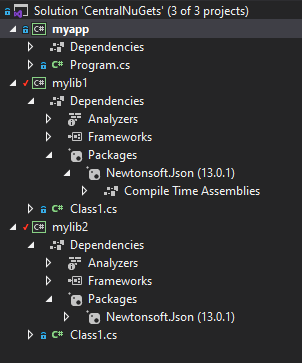
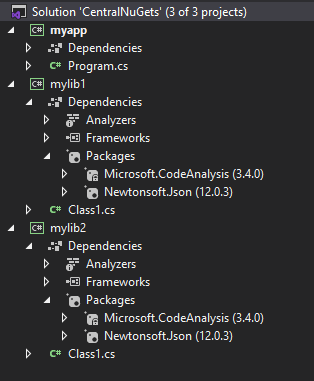
Managing Package Versions Centrally

Changed region(s): [[0.0, 0.0, 1.0, 0.9394]]

diff --git a/NuGets/ManagingPackageVersionsCentrally/Use-Directory.Packages.props/myapp/Program.cs b/NuGets/ManagingPackageVersionsCentrally/Use-Directory.Packages.props/myapp/Program.cs
@@ -1,0 +1,12 @@
+using System;
+
+namespace myapp
+{
+    class Program
+    {
+        static void Main(string[] args)
+        {
+            Console.WriteLine("Hello World!");
+        }
+    }
+}

diff --git a/NuGets/ManagingPackageVersionsCentrally/Use-Directory.Packages.props/mylib1/Class1.cs b/NuGets/ManagingPackageVersionsCentrally/Use-Directory.Packages.props/mylib1/Class1.cs
@@ -1,0 +1,8 @@
+using System;
+
+namespace mylib1
+{
+    public class Class1
+    {
+    }
+}

diff --git a/NuGets/ManagingPackageVersionsCentrally/Use-Directory.Packages.props/mylib2/Class1.cs b/NuGets/ManagingPackageVersionsCentrally/Use-Directory.Packages.props/mylib2/Class1.cs
@@ -1,0 +1,8 @@
+using System;
+
+namespace mylib2
+{
+    public class Class1
+    {
+    }
+}

diff --git a/README.md b/README.md
@@ -283,10 +283,33 @@ We can see that there is conflict between version 13.0.1 and 13.0.0.
 
 * It is better to define version of packages centrally to do not have such issues:
 
-Create a new file called ```Directory.Build.targets``` and define there references to nuget packages and its version. From ```csproj``` files remove version, only nuget name should be there.
+  There are 2 types of files used by MSbuild:
 
-After this change we can see that in both projects (libs) the same version of nuget is used:   
-![central-nugets.png](./images/central-nugets.png)
+  * Directory.Build.props   
+  
+    "Properties that are set in Directory.Build.props **can be overridden** elsewhere in the project file or in imported files, so you should think of the settings in Directory.Build.props as **specifying the defaults** for your projects."   
+
+    .props files are imported early in the import order.
+
+    IT LOOKS THAT IN THIS FILE WE CANNOT PLAY WITH NUGET PACKAGES!
+
+  * Directory.Build.targets
+  
+    "Directory.Build.targets is imported from Microsoft.Common.targets after importing .targets files from NuGet packages. So, **it can override** properties and targets defined in most of the build logic, or set properties for all your projects regardless of what the individual projects set."   
+
+    .targets files are imported late in the build order.
+
+    Create a new file called ```Directory.Build.targets``` and define there references to nuget packages and its version. From ```csproj``` files remove version, only nuget name should be there.
+
+    NOTE: if we want have a nuget package in all projects from solution then use **Include** attribute - then there is no need to specify this package at all in csproj files!
+
+    After this change we can see that in both projects (libs) the same version of nuget is used:   
+    ![central-nugets.png](./images/central-nugets.png)
+
+  Additional to these 2 files there is file ```Directory.Packages.props``` that is managed by nuget and it also can be used to manage packages centrally.
+
+  SUMMARY: I think it is better to use ```Directory.Build.targets``` instead of ```Directory.Packages.props``` because ```Directory.Build.targets``` can add a nuget package to all csprojs in solution without a need to update these csprojs while ```Directory.Packages.props``` requires entry in every csproj.
+
 
 [Managing Package Versions Centrally](./NuGets/ManagingPackageVersionsCentrally)
 
@@ -296,6 +319,9 @@ https://stu.dev/managing-package-versions-centrally/
 http://code.fitness/post/2018/03/directory-build-props.html   
 https://www.codementor.io/@rowlandbanks/lets-fix-your-c-project-structure-13om1krhqz   
 https://www.youtube.com/watch?v=GolKKJmqxoc   
+https://www.mytechramblings.com/posts/centrally-manage-nuget-versions   
+https://docs.microsoft.com/en-us/dotnet/core/compatibility/msbuild/5.0/directory-packages-props-imported-by-default   
+https://github.com/NuGet/Home/wiki/Centrally-managing-NuGet-package-versions   
 
 # Expression trees
 ## Expression trees basics
